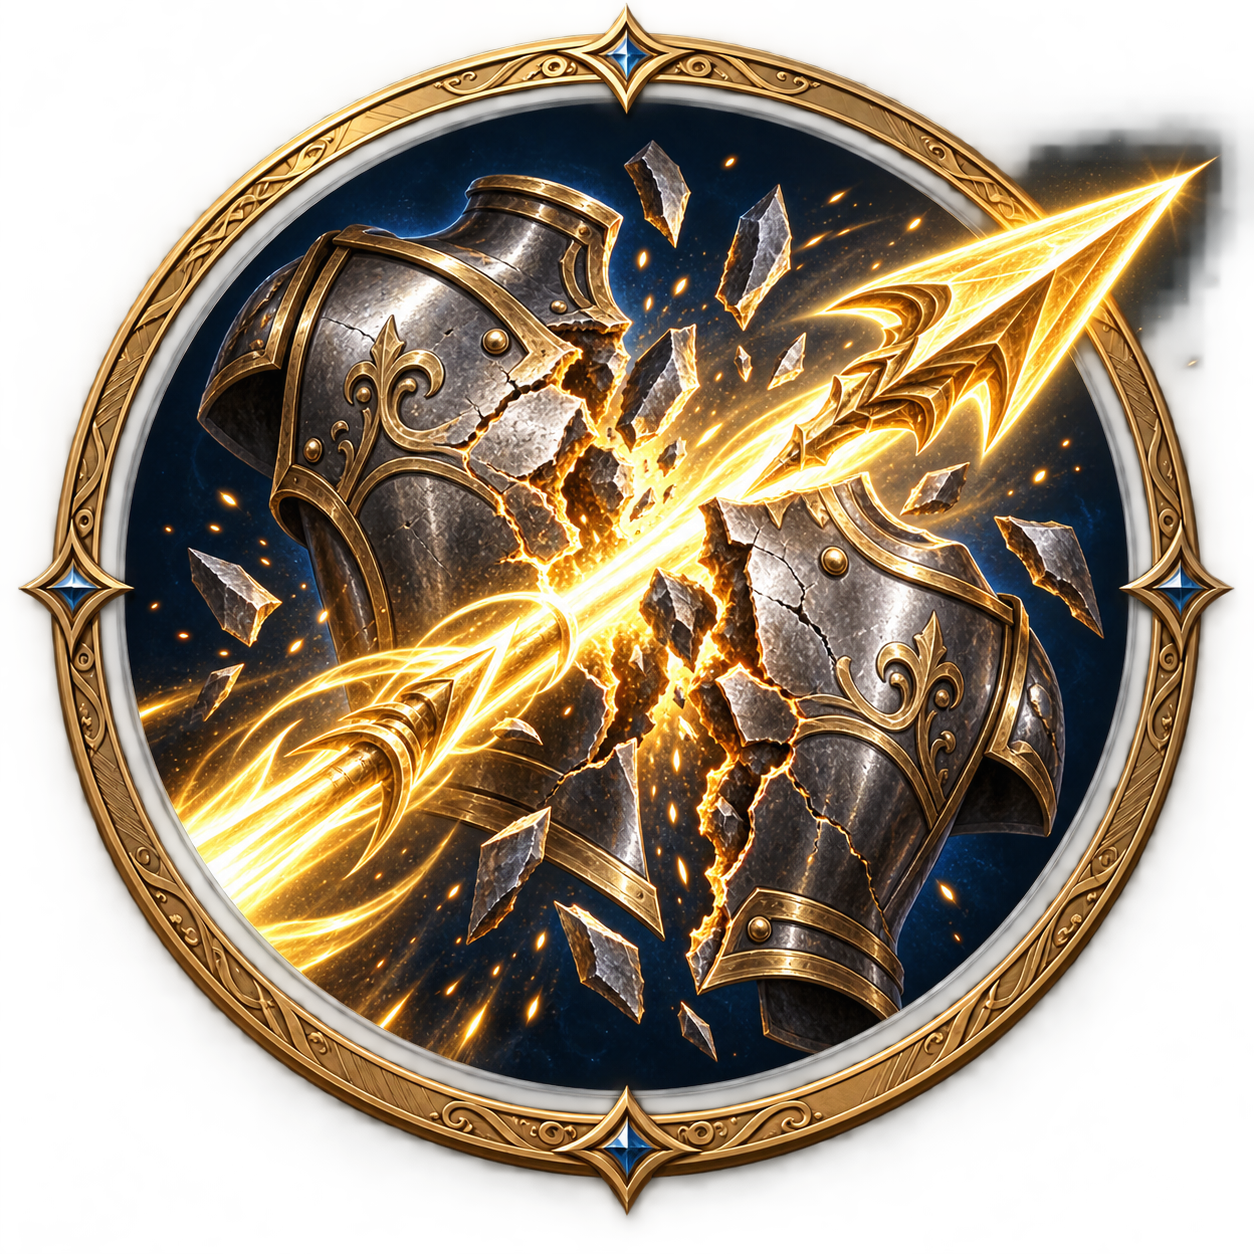
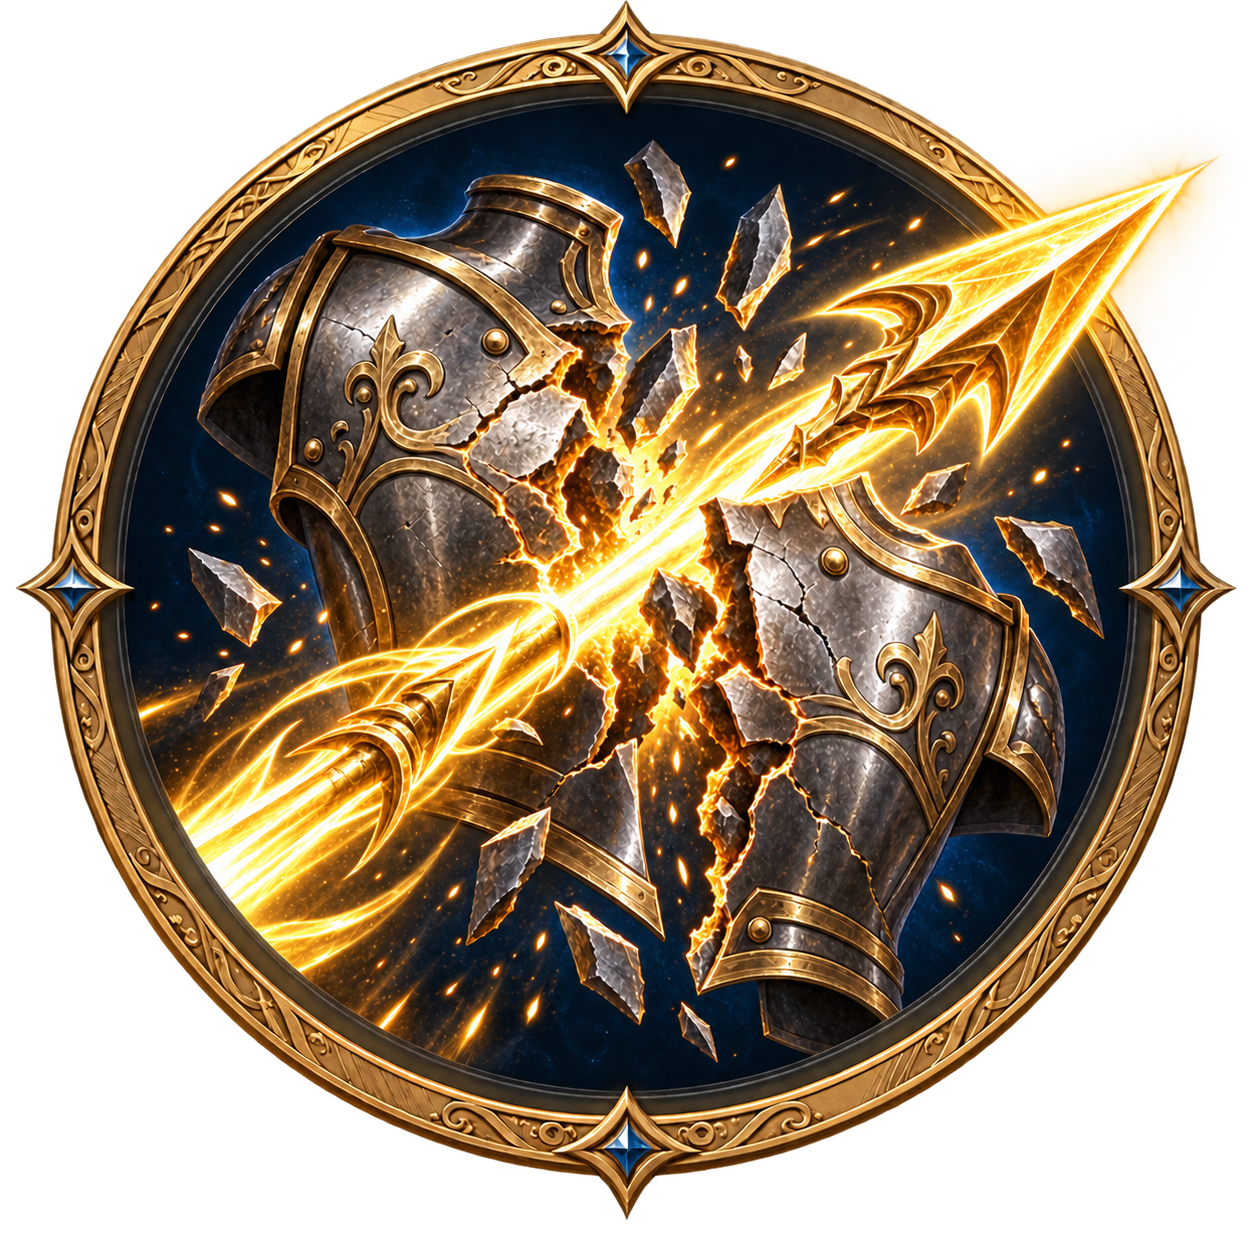
Celebrate equipment unlocks and preview campaign rewards in 0.1.12

diff --git a/docs/QA-0.1.12.md b/docs/QA-0.1.12.md
@@ -1,0 +1,29 @@
+# Provere 0.1.12 — otključavanje opreme
+
+Datum: 2026-09-18. Godot 4.7.2, Android code 13. Opseg: čišćenje Proboj slike, najava nagrada u kampanji i trajno sačuvan red dijaloga za novu opremu. Pravila duela i server nisu menjani.
+
+## Automatizovane provere
+
+- 1.570 PASS / 0 FAIL kroz `tools/build-android.ps1`, plus refill benchmark sa 0 neuspeha. Import/export nema script/engine greške ili upozorenja.
+- Dodato 18 provera: migracija starog save-a bez starih najava, podudaranje svih pet nagrada sa nivoima, nivo bez posebne nagrade, dve nagrade u jednoj pobedi, jednokratna obrada pobede, dijalog posle animacije, potvrda jednog po jednog predmeta, čuvanje reda, stvarni cold-start nove scene, Back potvrda, ponovljena pobeda, poraz, sanitizacija neispravnog reda i povratak na rezultat pobede.
+- `game/tests/test_equipment.gd` pokriva dodatni tok. Opšti test animacije poraza sada izričito postavlja stanje bez nepotvrđenih nagrada; stanje sa nagradama ima zasebne provere.
+
+## Vizuelno
+
+- `game/tests/render_unlocks.gd` renderuje EN/SR kampanju, već osvojenu nagradu, Proboj, Pečat leksikona i Rezervnu ćeliju, kao i novu sliku na beloj/navy podlozi.
+- Pregledani prikazi 1280×576 i 1280×720: cela strela bez crnog traga, čitljivi nazivi i opisi, velika potvrda, mala ikonica nagrade ispod protivnikovog opisa, bez preklapanja brojeva nivoa ili dugmeta pripreme.
+- Izvori slika ostaju nepromenjeni rezultati ImageGen alata. Nova produkciona slika je 2.471.583 bajta; Godot import i dalje 512 px sa mipmapama.
+
+## APK
+
+Namenski API 36 emulator, 2400×1080 tokom igre: 0.1.12 instaliran preko stvarne 0.1.11 bez brisanja; ceo progress fajl identičan neposredno posle instalacije. Privremeni fixture prikazuje Proboj i Pečat leksikona: stvarni dodir potvrđuje samo prvi predmet, force-stop zadržava drugi, Android Back potvrđuje poslednji. Ponovnim startom i stvarnim Play dodirom otvorena je kampanja sa odabranim četvrtim nivoom i najavom Proboja. Pregledani Android snimci dijaloga i mape. Nema script greške/pada u proveravanim tokovima. `ANDROID 0.1.12 UNLOCK QA COMPLETE`; originalni napredak emulatora vraćen. Fizički Samsung ostaje korisnička proba.
+
+Lokalni Android dokazi: `.local/android-012-qa.log`, `.local/android-012-runtime.log`, `.local/android-012-unlock-breach.png`, `.local/android-012-unlock-lexicon.png`, `.local/android-012-campaign-reward.png`.
+
+Emulator pri pokretanju prijavljuje obnovu nepodudarnog shader keša (`Failed to load cached shader, recompiling`), kao i u prethodnoj verziji. Posle kompilacije svi proveravani tokovi rade; Android start nije predstavljen kao start bez upozorenja.
+
+- `exports/WarOfWords-0.1.12-android.apk`: 103.096.196 bajtova.
[2 lines of base64/hex data omitted]
+
+Lokalni logovi: `.local/build-0.1.12.log`, `.local/unlocks-test-012.log`, `.local/render-unlocks-wide.log`, `.local/render-unlocks-169.log`. Renderi: `.local/unlocks-qa-1280x576/`, `.local/unlocks-qa-1280x720/`.

diff --git a/docs/android.md b/docs/android.md
@@ -1,6 +1,6 @@
 # Android — instalacija i razvoj
 
-**Aktivni paket: 0.1.11 / code 12.** Nova W ikonica i puni prikaz Proboja. Instalira se preko **0.1.10 bez deinstalacije**, sa istim lokalnim potpisom; očuvanje celog progress fajla provereno u emulatoru. Za prelazak sa kućnih 0.1.7–0.1.9 potpis se razlikuje kao u 0.1.10 i potrebna je deinstalacija, uz gubitak lokalnog napretka. Kampanja i vežba rade offline, rangirani dnevni izazov zahteva internet. Ključ čuvati i preneti bezbedno van Git-a. [Provere](QA-0.1.11.md), [stanje objave](../STATUS.md). Niži odeljci o ranijim paketima su istorija.
+**Aktivni paket: 0.1.12 / code 13.** Očišćen Proboj, dijalog otključavanja i nagrade na mapi. Instalira se preko **0.1.11 ili 0.1.10 bez deinstalacije**, sa istim lokalnim potpisom; prelazak sa 0.1.11 i očuvanje celog progress fajla provereni u emulatoru. Za prelazak sa kućnih 0.1.7–0.1.9 potpis se razlikuje kao u 0.1.10 i potrebna je deinstalacija, uz gubitak lokalnog napretka. Kampanja i vežba rade offline, rangirani dnevni izazov zahteva internet. Ključ čuvati i preneti bezbedno van Git-a. [Provere](QA-0.1.12.md), [stanje objave](../STATUS.md). Niži odeljci o ranijim paketima su istorija.
 
[1 lines of base64/hex data omitted]
 
@@ -13,7 +13,7 @@ APK SHA256: 118ad610bbba0e84a687975e4f11d4e0531244412fc978ae9b0357723bbf2d36; ve
 
 ## Probaj na telefonu
 
-1. Preuzmi aktuelni **WarOfWords-0.1.11-android.apk** prema linku u README-u (ili ga kopiraj iz `exports/` u Downloads telefona).
+1. Preuzmi aktuelni **WarOfWords-0.1.12-android.apk** prema linku u README-u (ili ga kopiraj iz `exports/` u Downloads telefona).
 2. Otvori APK u Downloads / My Files. Ako Android zatraži, dozvoli instalaciju tom browseru ili upravljaču fajlovima, pa izaberi Install.
 3. Otvori **War of Words**. Igra se automatski postavlja vodoravno. Kampanja radi bez interneta; globalna rang-lista zahteva internet.
 4. **Play → Prepare → Battle → Got it**. Prva tabla ima STONE u prvom redu. Prevuci S–T–O–N–E i pusti. Boje pune odgovarajuće sposobnosti; kada piše READY, dodirni sposobnost.

diff --git a/docs/game-design.md b/docs/game-design.md
@@ -2,6 +2,14 @@
 
 Ažurirano: 2026-09-18. Radni naziv. Poslednja eksplicitna korisnička odluka ima prednost.
 
+## 0.1.12 — najava i proslava otključavanja
+
+- Proboj zadržava celu strelu preko kružnog oboda, uz očišćenu providnost spolja: uklonjen je tamni trag oko vrha. Nova ImageGen korekcija ne menja značenje ikonice.
+- Posle pobede koja prvi put otključa opremu prikazuje se ukrašen dijalog „Čestitamo! Otključali ste“, velika ikonica, naziv i dve linije opisa. Jedna potvrda prikazuje sledeću nagradu, a poslednja vraća rezultat pobede. Više nagrada iz jednog duela prikazuje se redom. Potvrda ne oprema predmet automatski; izbor ostaje u Arsenalu.
+- Nepotvrđene nagrade su u lokalnom `pending_unlocks` redu. Prekid aplikacije ih ne gubi: prikazuju se pri sledećem pokretanju. Potvrđene se ne ponavljaju, ponovljena pobeda ne pravi novu najavu, a nadogradnja starog save-a ne prikazuje stare osvojene predmete kao nove. Android Back potvrđuje trenutni dijalog. Zvuk, vibracija i Reduced Motion poštuju podešavanja.
+- Mapa prikazuje malu ikonicu i „Nagrada za pobedu: …“ za Obnovu na susretu 3, Proboj 4, Pečat 6, Ogledalo 8 i Rezervnu ćeliju 10. Ako je predmet već osvojen, red prikazuje „Otključano: …“. Podaci dolaze iz istih definicija kao stvarno otključavanje, bez posebnog hardkodiranog izuzetka za Proboj.
+- Pečat leksikona ostaje posebna nagrada za pobedu uz reč od 7+ pločica, uz isti dijalog; nije obećan kao nagrada određenog nivoa. EN/SR su podržani. Uslovi, brojke opreme, dnevni režim i server nisu menjani.
+
 ## Vizuelna dorada posle 0.1.10
 
 Na zahtev korisnika Proboj dobija punu ilustraciju probijanja metalnog oklopa zlatnim energetskim projektilom, u stilu ostale opreme. Linijski privremeni simbol je uklonjen; isti izvor koriste svi ekrani i dugme u borbi. Posle dodatnog pregleda korisnik je izabrao **celu alfa siluetu**, bez kružnog odsecanja vrha projektila koji prelazi zlatni obod. Borba zadržava zaseban spoljašnji prsten punjenja. Pravila, trošak i efekat oružja nisu menjani.

diff --git a/STATUS.md b/STATUS.md
@@ -2,6 +2,15 @@
 
 Ažurirano: 2026-09-18. **Aktivna grana: codex/equipment-wave-one.**
 
+## 0.1.12 — nagrade na mapi i dijalog otključavanja
+
+- Očišćen tamni trag oko vrha strele Proboja; cela alfa silueta ostaje. ImageGen PNG pregledan na beloj i navy podlozi; prompt i poreklo su u `game/assets/art/prompts-breach-cleanup.json`.
+- Poseban ukrašen dijalog za svaki novootključani uređaj/artefakt: ikonica, naziv, opis i potvrda. Više nagrada ide redom, zatim rezultat pobede. Nepotvrđeni red se čuva kroz restart; potvrđene/ranije osvojene nagrade se ne najavljuju ponovo. Izbor opreme ostaje ručan u Arsenalu.
+- Mapa prikazuje ikonicu i nagradu za pobedu na susretima 3, 4, 6, 8 i 10, a za već osvojene predmete „Otključano“. EN/SR. Uslovi otključavanja i balans nisu menjani.
[1 lines of base64/hex data omitted]
+- 1.570 PASS / 0 FAIL + refill benchmark. Import/export bez script/engine grešaka i upozorenja. EN/SR renderi 1280×576 i 1280×720, uključujući duge nazive i obe podloge ikonice. Android API 36: instalacija preko 0.1.11 čuva ceo progress; potvrda prve nagrade dodirima, force-stop sa drugom nepotvrđenom nagradom, Back potvrda i otvaranje kampanje prolaze. Stvarni prikazi dijaloga i nagrade pregledani; originalni podaci emulatora vraćeni. Detalji: `docs/QA-0.1.12.md`. Objava još nije potvrđena.
+- **Sledeći korak:** objaviti i proveriti 0.1.12, zatim korisnička proba novog otključavanja na telefonu. Aktivna grana: `codex/equipment-wave-one`.
+
 ## 0.1.11 — odabrana ikonica i puni Proboj
 
 - Korisnik je izabrao detaljan Proboj sa vrhom projektila preko zlatnog oboda. Cela alfa silueta prikazuje se bez kružnog odsecanja u Arsenalu, unapređenjima, pripremi i borbi; spoljni prsten punjenja ostaje dinamički. PNG i prompt su u `game/assets/art/`.

diff --git a/game/assets/art/README.md b/game/assets/art/README.md
@@ -1,5 +1,11 @@
 # Production artwork
 
+## Breach transparency cleanup — 0.1.12, 2026-09-18
+
+The user identified a dark exterior matte around the protruding spear. Built-in OpenAI ImageGen edited the existing icon to remove that dark patch and dirty fringe while retaining the navy interior, engraved frame and projecting gold spear. `equipment-breach.png` is the unchanged new RGBA output (2,471,583 bytes). The previous original remains in Git history; the exact reference revision, output identifier and cleanup prompt are in `prompts-breach-cleanup.json`. The original creation prompt remains in `prompts-breach.json`.
+
+The revised texture was visually inspected on white and navy backgrounds in Godot. A subtle gold bloom remains around the luminous spear, without the black patch. Same applicable OpenAI terms, no third-party stock artwork. Godot's 512 px import and mipmaps are unchanged.
+
 ## Breach illustration revision — 2026-09-18
 
 `equipment-breach.png` is an original built-in OpenAI ImageGen illustration of a gold energy lance splitting steel armor. It replaces the temporary procedural arrow/shield symbol across equipment views and battle. Our `equipment-mirror.png` supplied only the rendering style and medallion presentation; the central illustration is new. The generated PNG is copied unchanged (2,862,978 bytes); Godot imports it with a 512-pixel limit and mipmaps, like the other equipment icons. Exact prompt, reference role and original source filename: `prompts-breach.json`.
